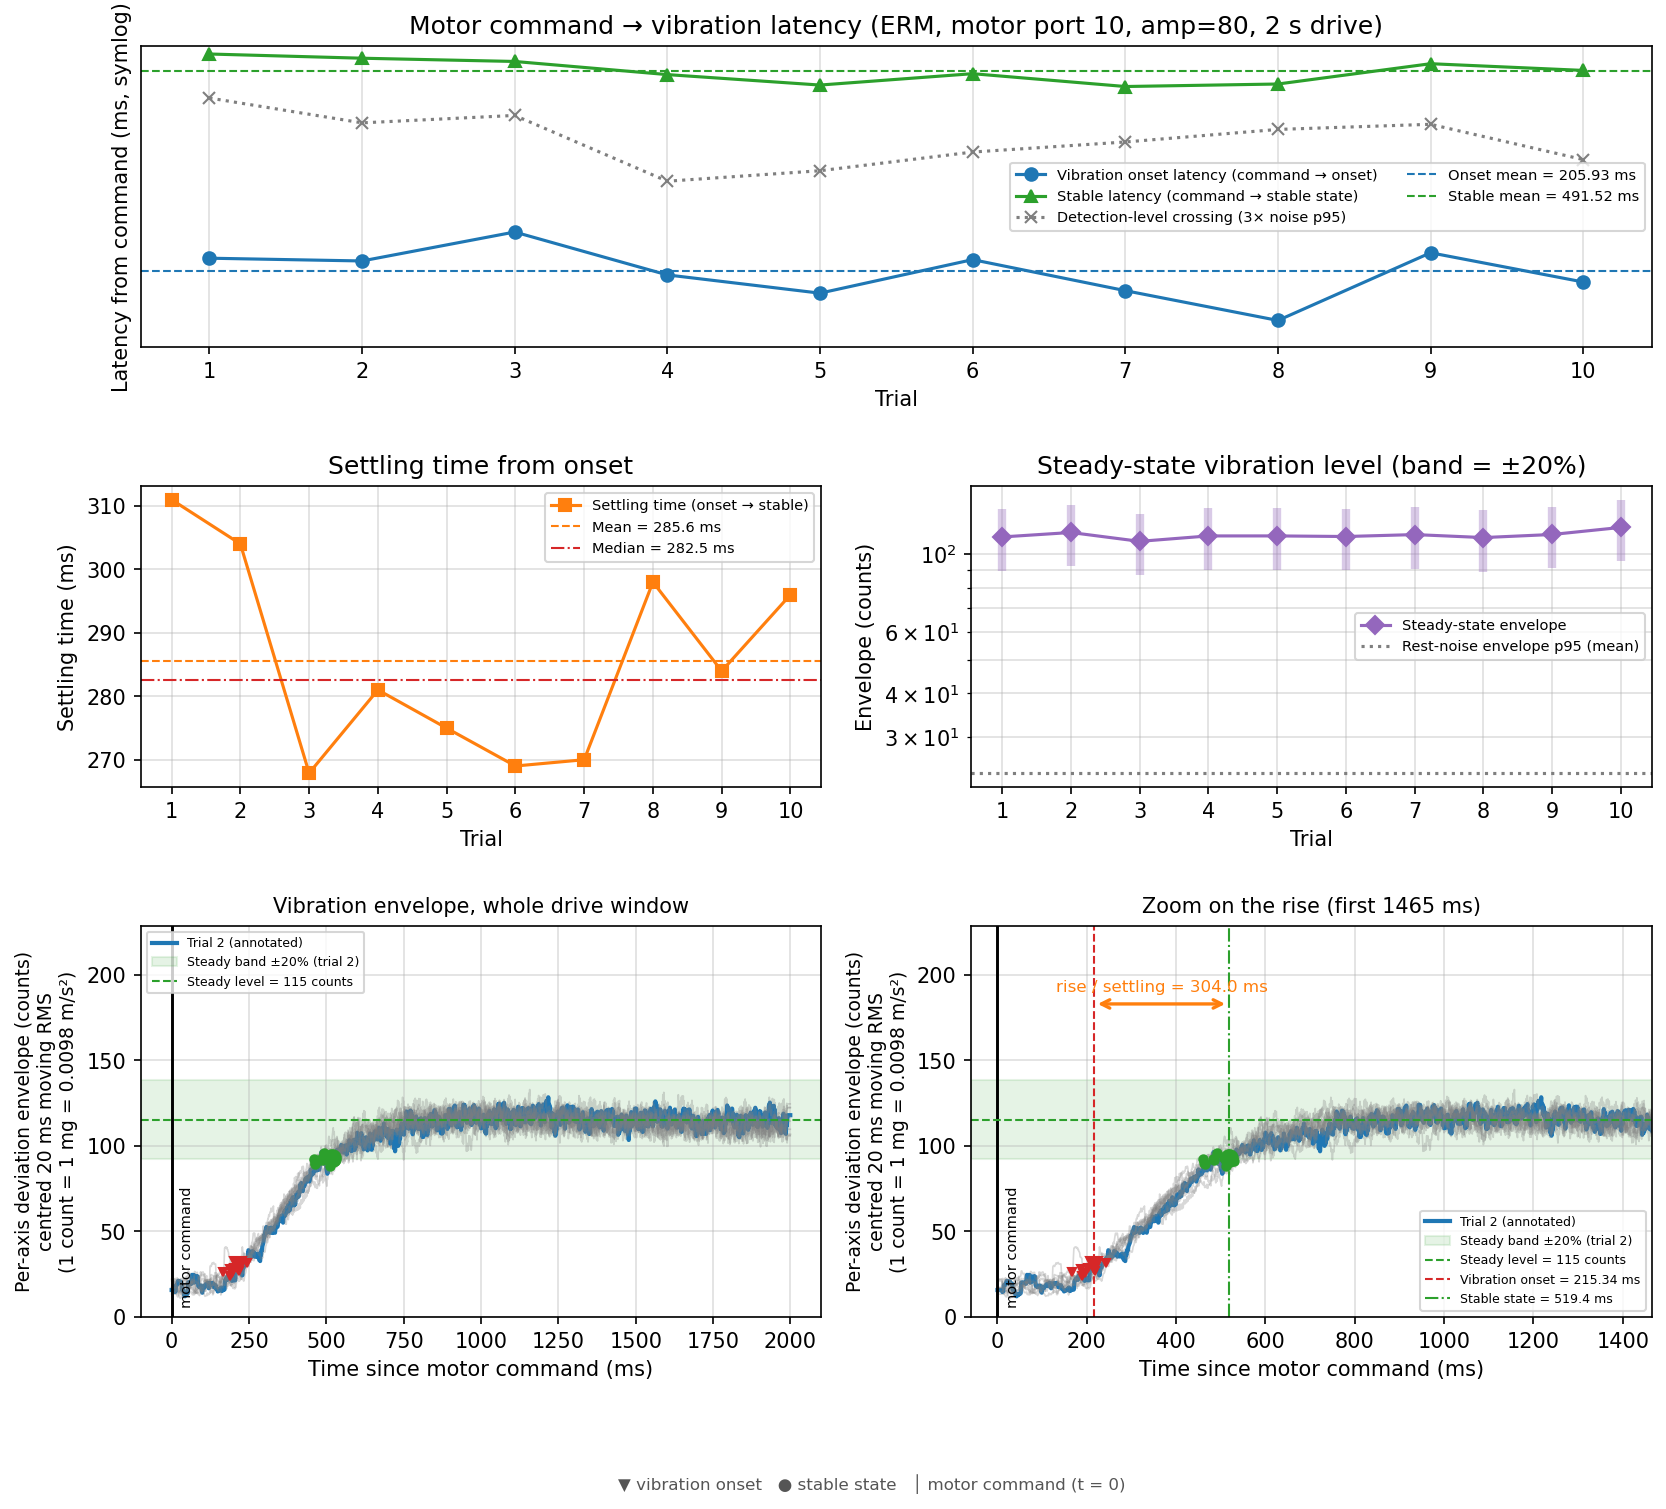
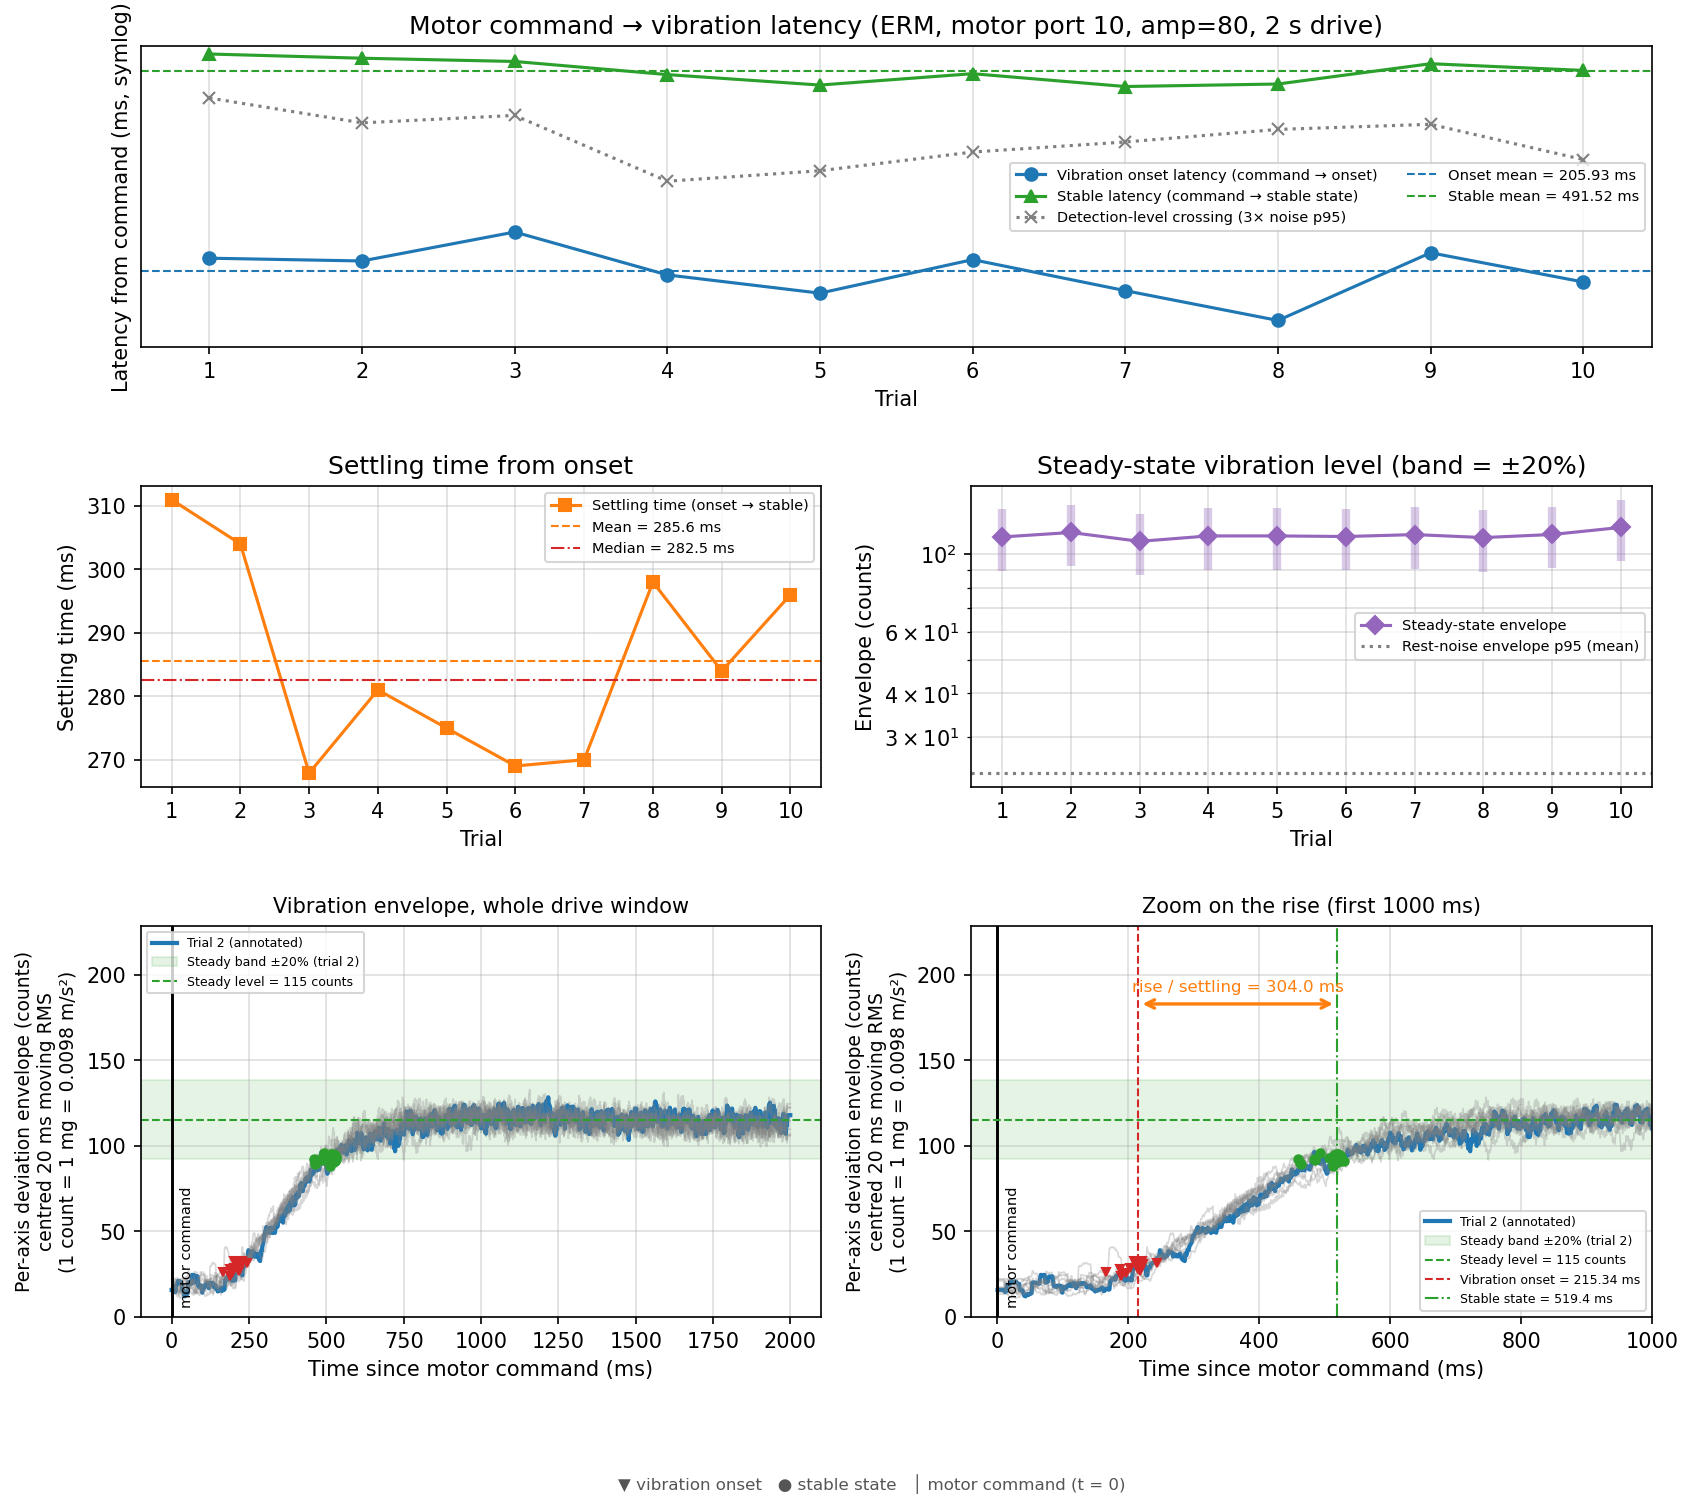
Give the rise zoom a fixed span, not a per-run one
The zoom panel sized itself from the run it was drawing - 1465 ms for
the ERM, 235 ms for the LRA - so the two panels are read side by side on
two different scales, and the actuator that starts in 6 ms looks as slow
to the eye as the one that takes 206 ms. Both now use ZOOM_END_S, and
only widen when a run's own onset or stable state would otherwise fall
off the panel.

The shared span pushes a fast actuator's rise arrow against the left
edge, where a caption centred on it would spill over the y axis, so that
caption now starts just past the arrow instead. Both summaries
re-rendered in place.

diff --git a/main/validation_experiments/motor_acc_delay_experiment/motor_acc_delay.py b/main/validation_experiments/motor_acc_delay_experiment/motor_acc_delay.py
@@ -286,6 +286,16 @@ ENVELOPE_AXIS_LABEL = (
     f"centred {ENVELOPE_WINDOW_S * 1000:.0f} ms moving RMS\n"
     f"(1 count = 1 mg = {MS2_PER_COUNT:.4f} m/s²)")
 
+# -- figure --------------------------------------------------------------
+# X span of the "zoom on the rise" panel. FIXED, not fitted to each
+# run: the ERM and the LRA panels are read side by side, and an axis
+# that shrinks to whatever the actuator needed makes the fast one
+# look exactly as slow as the slow one - the eye reads the shape of
+# the rise across the panel, not the tick labels. A run whose rise
+# needs longer still gets the room (nothing is ever cut off), and the
+# span never exceeds the drive window.
+ZOOM_END_S = 1.000
+
 # -- steady state --------------------------------------------------------
 # The steady level is the MEDIAN envelope over the last
 # STEADY_REF_FRACTION of the drive window (median, so a late glitch
@@ -1259,11 +1269,21 @@ def _draw_envelopes(ax, results: List[TrialResult],
                     xytext=(rep.onset_rel_time * 1000.0, y),
                     arrowprops=dict(arrowstyle="<->", color="tab:orange",
                                     lw=1.6))
-        ax.text((rep.onset_rel_time + rep.stable_rel_time) * 500.0,
+        # Centred on the arrow, unless the arrow sits so close to the
+        # left edge (a fast actuator on the shared span) that a
+        # centred caption would spill over the y axis: then it
+        # starts just past the arrow instead.
+        x_left, x_right = ax.get_xlim()
+        span = x_right - x_left
+        middle_ms = (rep.onset_rel_time + rep.stable_rel_time) * 500.0
+        crowded = (middle_ms - x_left) < 0.22 * span
+        ax.text(rep.stable_rel_time * 1000.0 + 0.015 * span if crowded
+                else middle_ms,
                 low + 0.83 * (high - low),
                 f"rise / settling = "
                 f"{rep.settling_time_from_onset_ms:.1f} ms",
-                ha="center", fontsize=8, color="tab:orange")
+                ha="left" if crowded else "center", fontsize=8,
+                color="tab:orange")
     return any_trace
 
 
@@ -1404,13 +1424,17 @@ def save_plot(path: str, results: List[TrialResult], actuator_type: str,
                   "Vibration envelope (no per-sample traces for this run)",
                   fontsize=10)
 
-    # Zoom: enough room for the slowest stable state, at least 100 ms.
+    # Zoom: the shared ZOOM_END_S span. It only widens for a run that
+    # would otherwise have its own marked instants off the panel -
+    # margin around the rise is what the fixed span already buys - and
+    # it never runs past motor-off.
     stables = [r.stable_rel_time for r in results
                if r.stable_rel_time is not None]
     onsets = [r.onset_rel_time for r in results if r.onset_rel_time is not None]
-    zoom_end_s = max(0.100, 1.6 * max(stables) if stables else 0.0,
-                     6.0 * max(onsets) if onsets else 0.0)
-    zoom_end_s = min(zoom_end_s, float(vib_duration_s))
+    marked_s = max(max(stables) if stables else 0.0,
+                   max(onsets) if onsets else 0.0)
+    zoom_end_s = min(max(ZOOM_END_S, 1.25 * marked_s),
+                     float(vib_duration_s))
     ax5.set_xlim(-0.04 * zoom_end_s * 1000.0, zoom_end_s * 1000.0)
     _draw_envelopes(ax5, results, representative, annotate=True, ylim_top=top)
     ax5.set_title(f"Zoom on the rise (first {zoom_end_s * 1000:.0f} ms)",
